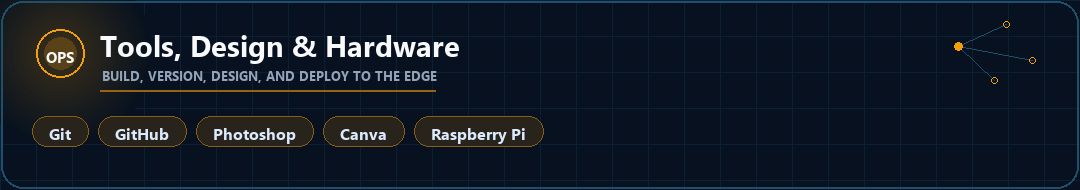
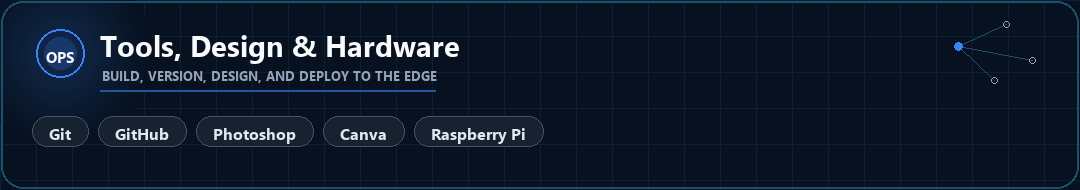
Unify toolkit cards on a single electric blue-silver palette
Replace the cyan/purple/amber per-card accents with one consistent
accent color for a cleaner, enterprise look, and drop the CUDA tag
that was wrapping to its own line.

diff --git a/tools/generate_toolkit_cards.py b/tools/generate_toolkit_cards.py
@@ -17,6 +17,8 @@ W, H = 1080, 190
 BG = "#07111f"
 GRID = "#0b2035"
 BORDER = "#1e506c"
+ACCENT = "#3b82f6"
+SILVER = "#94a3b8"
 
 CARDS = (
     (
@@ -24,8 +26,7 @@ CARDS = (
         "AI",
         "AI & Machine Learning",
         "MODELS, RETRIEVAL, AND GENERATIVE AI APPLICATIONS",
-        ("Python", "PyTorch", "TensorFlow", "Keras", "scikit-learn", "NumPy", "Pandas", "Matplotlib", "OpenCV", "CUDA"),
-        "#22d3ee",
+        ("Python", "PyTorch", "TensorFlow", "Keras", "scikit-learn", "NumPy", "Pandas", "Matplotlib", "OpenCV"),
     ),
     (
         "toolkit-languages-web.png",
@@ -33,7 +34,6 @@ CARDS = (
         "Languages & Web",
         "CORE LANGUAGES AND WEB DELIVERY",
         ("C++", "Java", "JavaScript", "Next.js", "WordPress"),
-        "#a78bfa",
     ),
     (
         "toolkit-tools-hardware.png",
@@ -41,7 +41,6 @@ CARDS = (
         "Tools, Design & Hardware",
         "BUILD, VERSION, DESIGN, AND DEPLOY TO THE EDGE",
         ("Git", "GitHub", "Photoshop", "Canva", "Raspberry Pi"),
-        "#f59e0b",
     ),
 )
 
@@ -78,47 +77,48 @@ def draw_glow(draw: ImageDraw.ImageDraw, center: tuple[int, int], radius: int, a
         draw.ellipse((cx - r, cy - r, cx + r, cy + r), fill=color)
 
 
-def draw_network(draw: ImageDraw.ImageDraw, accent: str) -> None:
+def draw_network(draw: ImageDraw.ImageDraw) -> None:
     hub = (958, 46)
     satellites = [(1006, 24), (1032, 60), (994, 80)]
     for point in satellites:
         draw.line((hub, point), fill=BORDER, width=1)
-        draw.ellipse((point[0] - 3, point[1] - 3, point[0] + 3, point[1] + 3), outline=accent, width=1)
-    draw.ellipse((hub[0] - 4, hub[1] - 4, hub[0] + 4, hub[1] + 4), fill=accent)
+        draw.ellipse((point[0] - 3, point[1] - 3, point[0] + 3, point[1] + 3), outline=SILVER, width=1)
+    draw.ellipse((hub[0] - 4, hub[1] - 4, hub[0] + 4, hub[1] + 4), fill=ACCENT)
 
 
-def render(filename: str, glyph: str, title: str, subtitle: str, tags: tuple[str, ...], accent: str) -> None:
+def render(filename: str, glyph: str, title: str, subtitle: str, tags: tuple[str, ...]) -> None:
     base_rgb = hex_to_rgb(BG)
-    accent_rgb = hex_to_rgb(accent)
+    accent_rgb = hex_to_rgb(ACCENT)
+    silver_rgb = hex_to_rgb(SILVER)
 
     image = Image.new("RGB", (W, H), BG)
     draw = ImageDraw.Draw(image)
     draw_grid(draw)
     draw_glow(draw, (60, 53), 92, accent_rgb, base_rgb)
-    draw_network(draw, accent)
+    draw_network(draw)
     draw.rounded_rectangle((1, 1, W - 2, H - 2), radius=22, outline=BORDER, width=2)
 
     # Node-style icon badge, echoing the banner's AI nucleus motif.
     icon_font = font(15 if len(glyph) <= 3 else 12, bold=True)
-    draw.ellipse((36, 29, 84, 77), outline=accent, width=2)
+    draw.ellipse((36, 29, 84, 77), outline=ACCENT, width=2)
     draw.ellipse((44, 37, 76, 69), fill=blend(base_rgb, accent_rgb, 0.35))
     gw = draw.textbbox((0, 0), glyph, font=icon_font)[2]
     draw.text((60 - gw / 2, 46), glyph, font=icon_font, fill="#f8fafc")
 
     draw.text((100, 25), title, font=font(29), fill="#f8fafc")
-    draw.text((102, 66), subtitle, font=font(13), fill="#94a3b8")
+    draw.text((102, 66), subtitle, font=font(13), fill=SILVER)
     draw.line((100, 90, 100 + draw.textbbox((0, 0), subtitle, font=font(13))[2], 90), fill=blend(base_rgb, accent_rgb, 0.6), width=2)
 
     tag_font = font(16)
     x, y = 32, 116
-    tag_fill = blend(base_rgb, accent_rgb, 0.14)
-    tag_border = blend(base_rgb, accent_rgb, 0.55)
+    tag_fill = blend(base_rgb, silver_rgb, 0.12)
+    tag_border = blend(base_rgb, silver_rgb, 0.45)
     for tag in tags:
         width = tag_width(draw, tag, tag_font)
         if x + width > W - 32:
             x, y = 32, y + 42
         draw.rounded_rectangle((x, y, x + width, y + 30), radius=15, fill=tag_fill, outline=tag_border, width=1)
-        draw.text((x + 17, y + 6), tag, font=tag_font, fill="#dbeafe")
+        draw.text((x + 17, y + 6), tag, font=tag_font, fill="#e2e8f0")
         x += width + 10
 
     image.save(OUT / filename, optimize=True)
